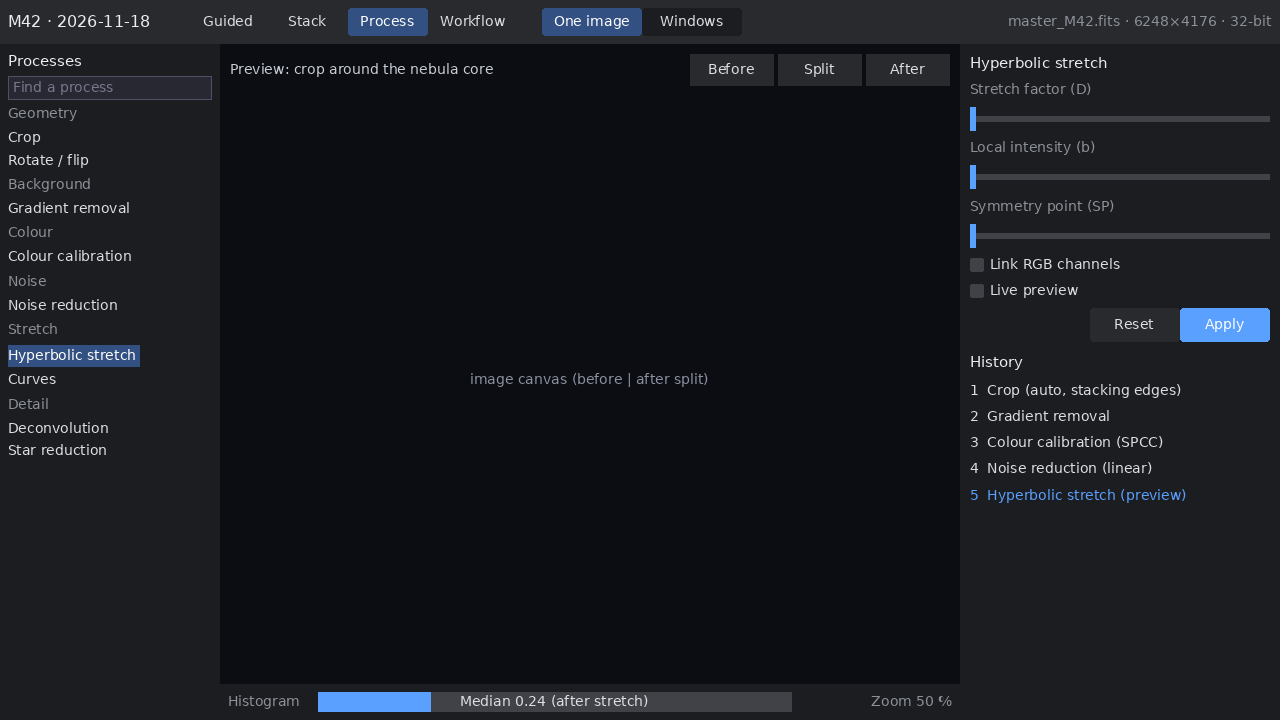
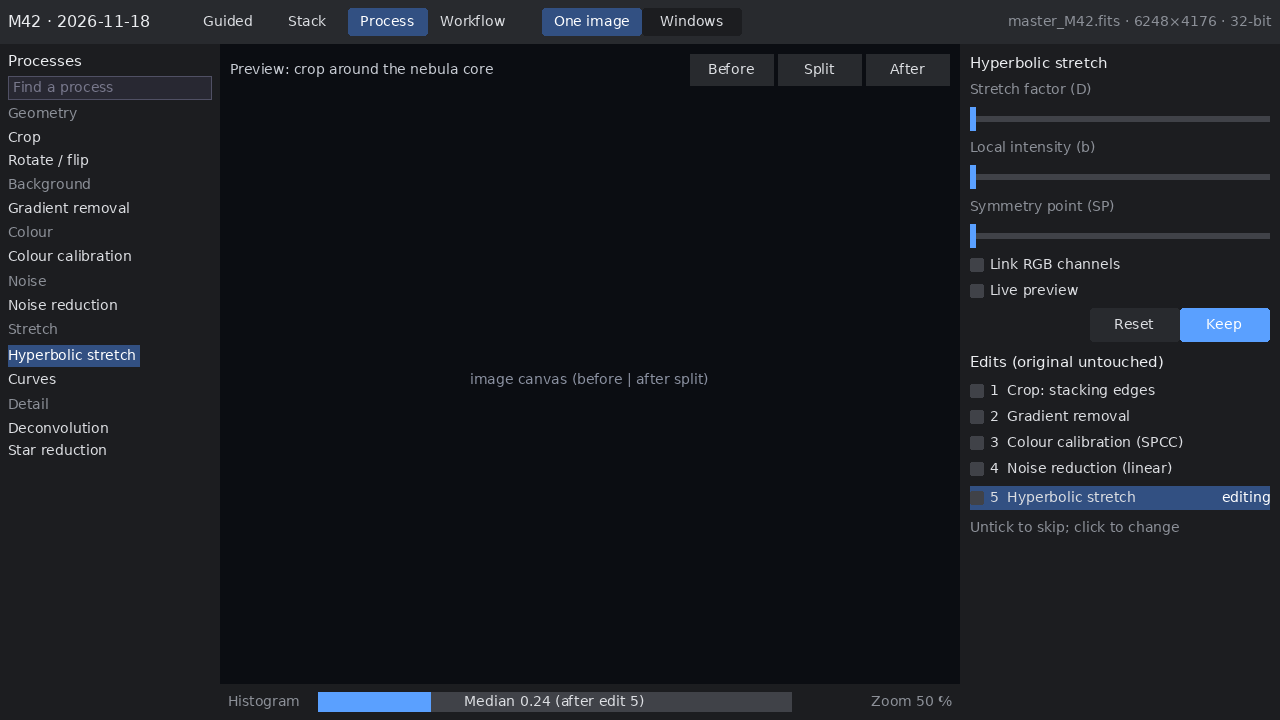
Non-destructive edits: edit list with on/off, Keep not Apply, crop edge source, images paged to disk

Changed region(s): [[0.75, 0.4889, 1.0, 0.7333], [0.3438, 0.9472, 0.5, 0.9778], [0.9375, 0.4278, 0.9688, 0.4583]]

diff --git a/DESIGN.md b/DESIGN.md
@@ -1,6 +1,8 @@
 # Stacking and processing app
 
-**Objective:** A stand-alone app to calibrate, stack and post-process astro images, in the spirit of PixInsight; tianwen's GUI gets live stacking only, as a mode of its frame preview.
+**Objective:** A stand-alone app to calibrate, stack and post-process (edit) astro images, in the spirit of PixInsight, with non-destructive editing throughout; tianwen's GUI gets live stacking only, as a mode of its frame preview.
+
+**Principle: non-destructive editing.** An image is its original plus a list of edits (the Image class): crop, gradient removal, a stretch are each an edit that can be switched off, changed or reordered later, and later edits re-run. Nothing is written over. When many images are open (five masters, starless and star copies, masks), images not being worked on are kept on disk in a cache folder and load back on demand; the app says which ones and how much memory is in use.
 
 ## Guided
 
@@ -24,13 +26,13 @@ Stack workspace: frames, pipeline, preview
 
 ## Process
 
-**Objective:** Shows post-processing of the master: a process list on the left, the chosen process's settings and the history on the right, a before/after preview in the middle.
+**Objective:** Shows post-processing of the master: a process list on the left, the chosen process's settings and the image's edit list on the right, a before/after preview in the middle.
 
 ```screen id=process
 Process workspace: hyperbolic stretch on the master
 ```
 
-**Notes:** One process open at a time, docked, instead of PixInsight's floating windows. History is a plain list; clicking a step would roll the preview back to it. The header's One image / Windows switch picks SDI or MDI; One image is the default.
+**Notes:** One process open at a time, docked, instead of PixInsight's floating windows. The history is the image's edit list, not an undo log: each edit has a tick to switch it off and opens its settings when clicked, and the original stays untouched underneath. A process's button says Keep (add or update this edit), not Apply, because nothing is burnt in. The header's One image / Windows switch picks SDI or MDI; One image is the default.
 
 ## Crop
 
@@ -40,7 +42,7 @@ Process workspace: hyperbolic stretch on the master
 Process: Crop, auto-cropping the stacking edges
 ```
 
-**Notes:** Auto-crop uses the integration's cover map (where fewer than 90 % of frames overlap), so it is exact rather than guessed from the pixels; "Cover map" in the canvas toolbar shows it. The side fields show the auto values and can be overwritten; dragging the frame does the same. North-up needs a plate solve and says so. Crop is also step 6 of Guided and a step a workflow can hold.
+**Notes:** Crop is an edit like any other: the crop frame is stored, not the cut pixels, so it can be widened again later. Auto-crop finds the edges one of two ways: from the integration's cover map (where fewer than 90 % of frames overlap), which is exact and the default here; or from the image on the GPU, the quick way the tianwen viewer does it today, which is what Guided uses. "Cover map" in the canvas toolbar shows the map. The side fields show the auto values and can be overwritten; dragging the frame does the same. North-up needs a plate solve and says so. Crop is also step 6 of Guided and a step a workflow can hold.
 
 ## Windows (MDI)
 
@@ -50,7 +52,7 @@ Process: Crop, auto-cropping the stacking edges
 Process in Windows mode: pixel math across four windows
 ```
 
-**Notes:** MDI earns its keep where a process needs more than one image: pixel math, masks, channel combine. Windows tile by default (Cascade and Tabs on offer) so nothing hides another; zoom and pan can be linked. The active window has a thick blue outline and is named in the panel and the status line, so it is not shown by colour alone. The switch lives in the Process header and is remembered; Stack and Guided stay single-image.
+**Notes:** MDI earns its keep where a process needs more than one image: pixel math, masks, channel combine. Windows tile by default (Cascade and Tabs on offer) so nothing hides another; zoom and pan can be linked. The active window has a thick blue outline and is named in the panel and the status line, so it is not shown by colour alone. The switch lives in the Process header and is remembered; Stack and Guided stay single-image. "Open images" lists each image with where it is (memory or on disk) and how many edits it carries, above a memory bar; images go to the cache folder on their own when memory runs short, and the window title says "on disk" so a slow first redraw is explained.
 
 ## Workflow
 
